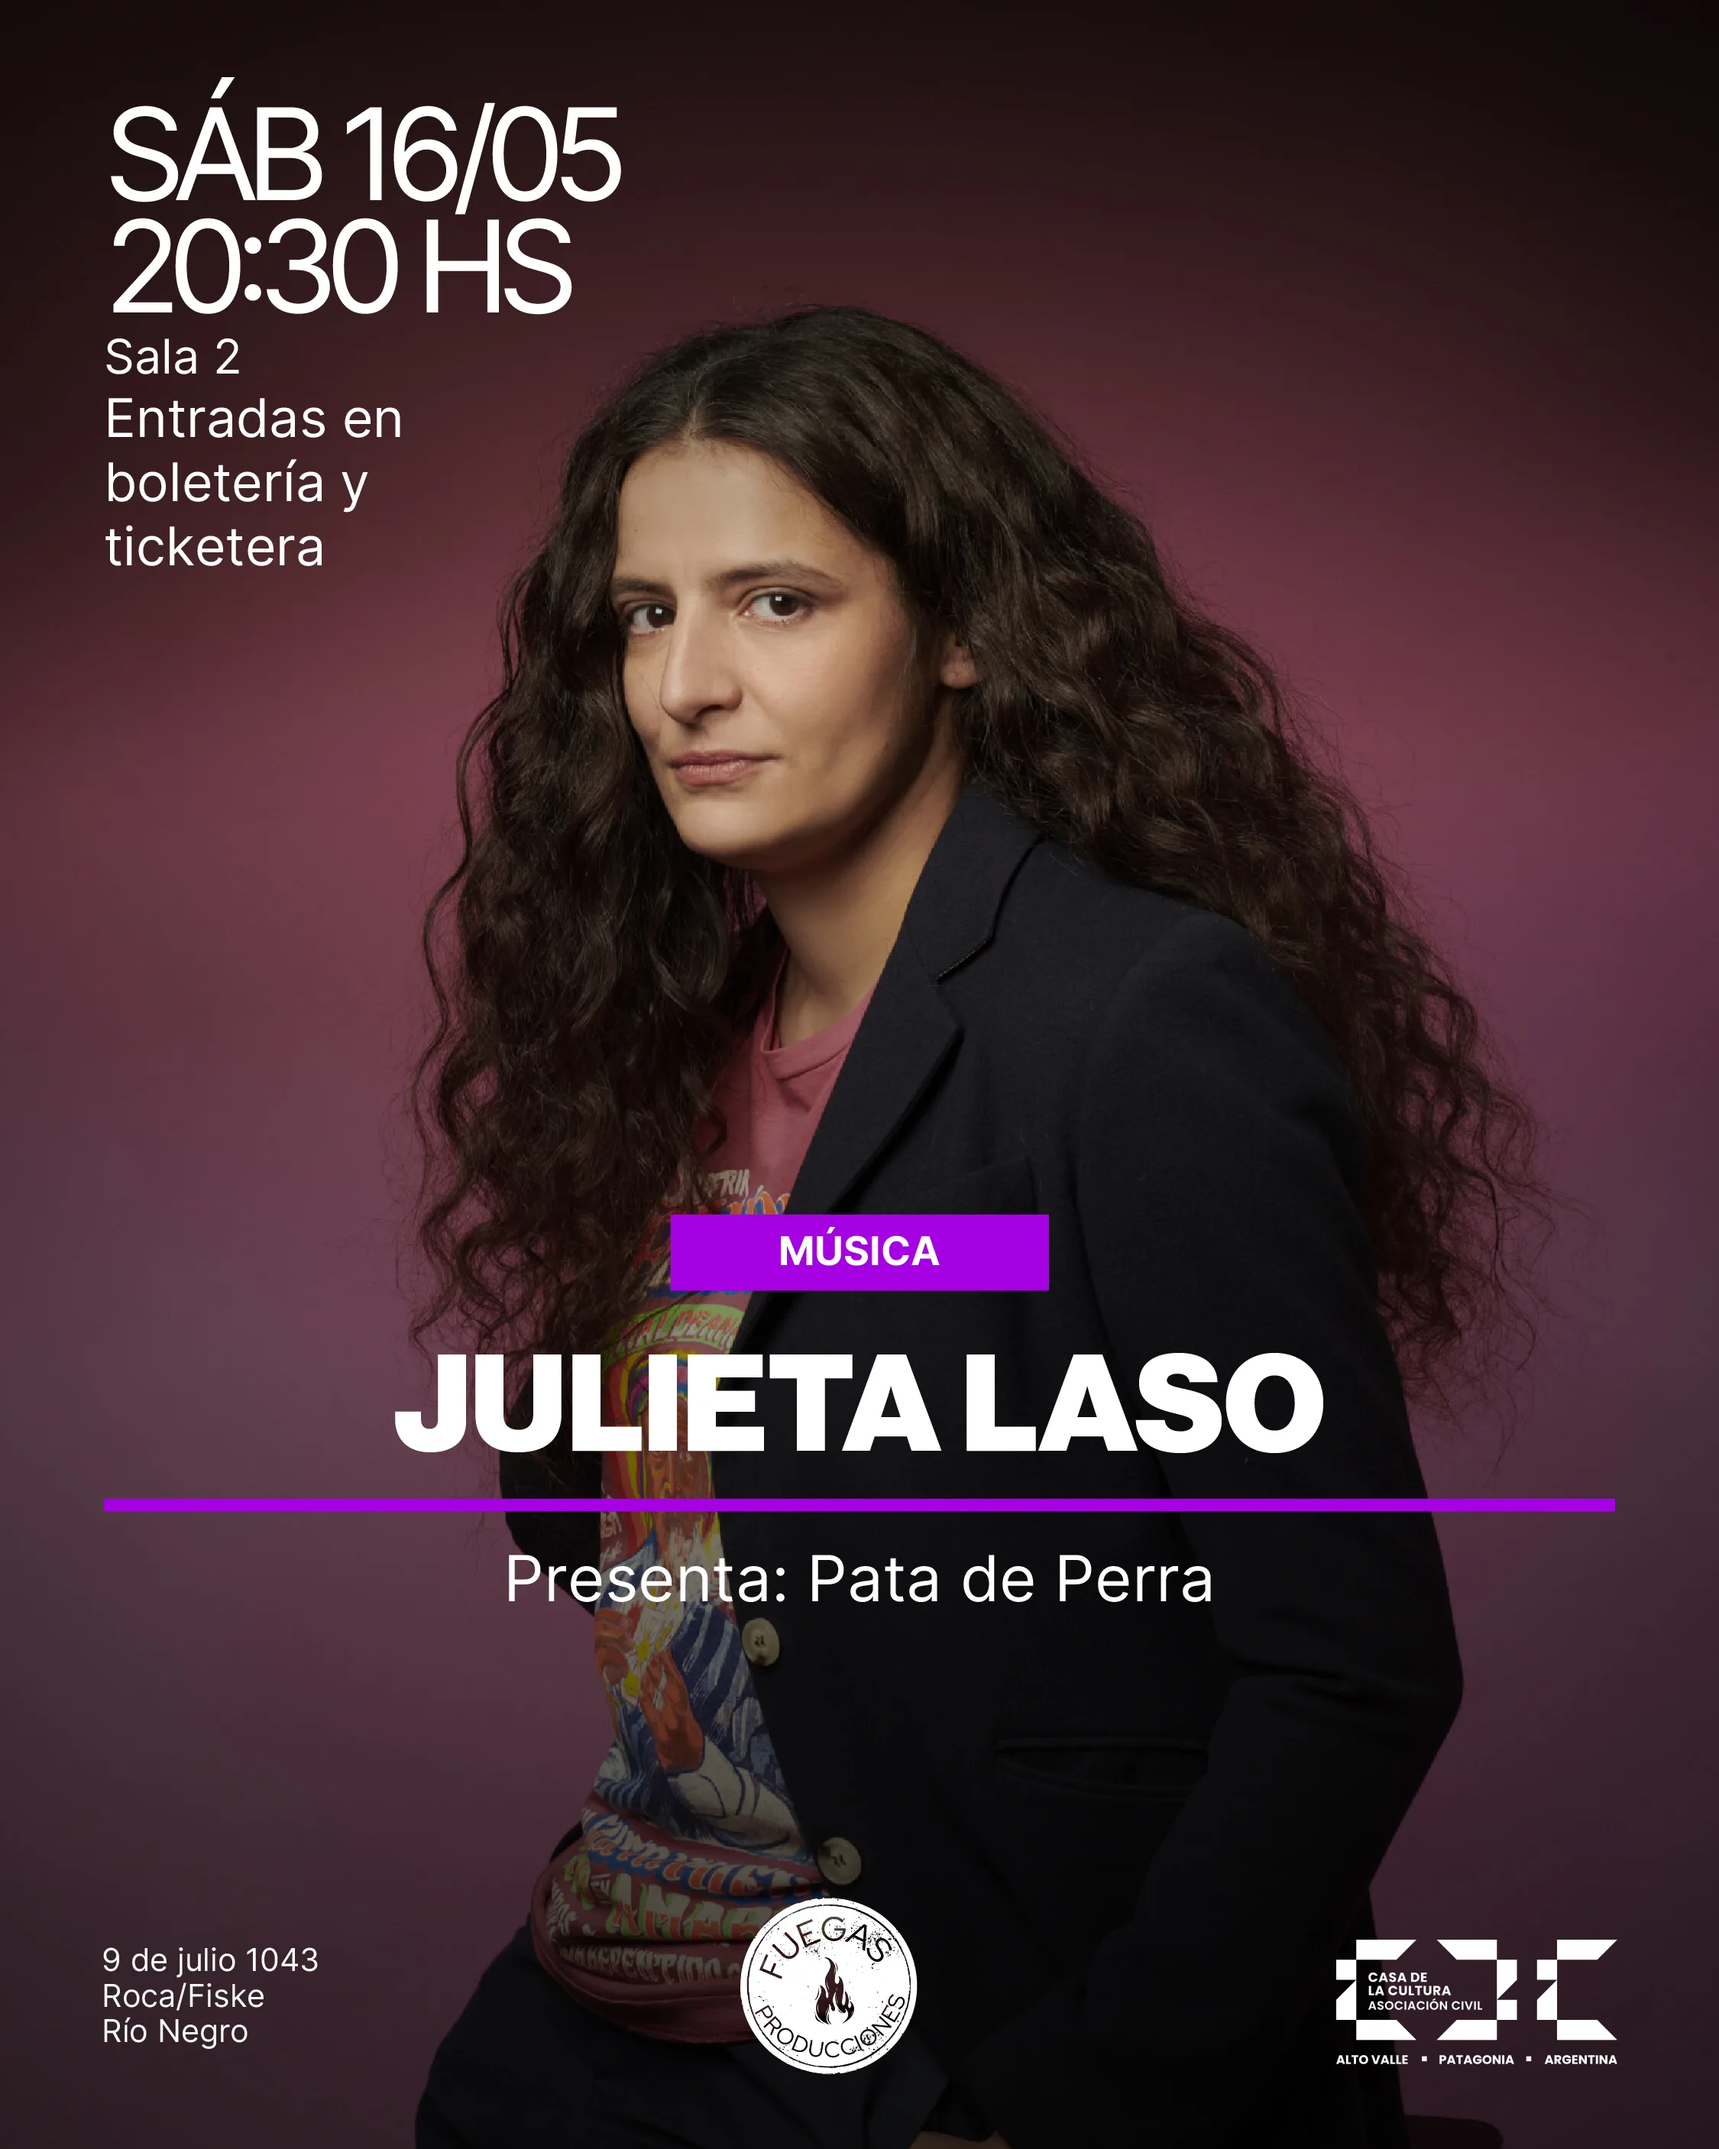
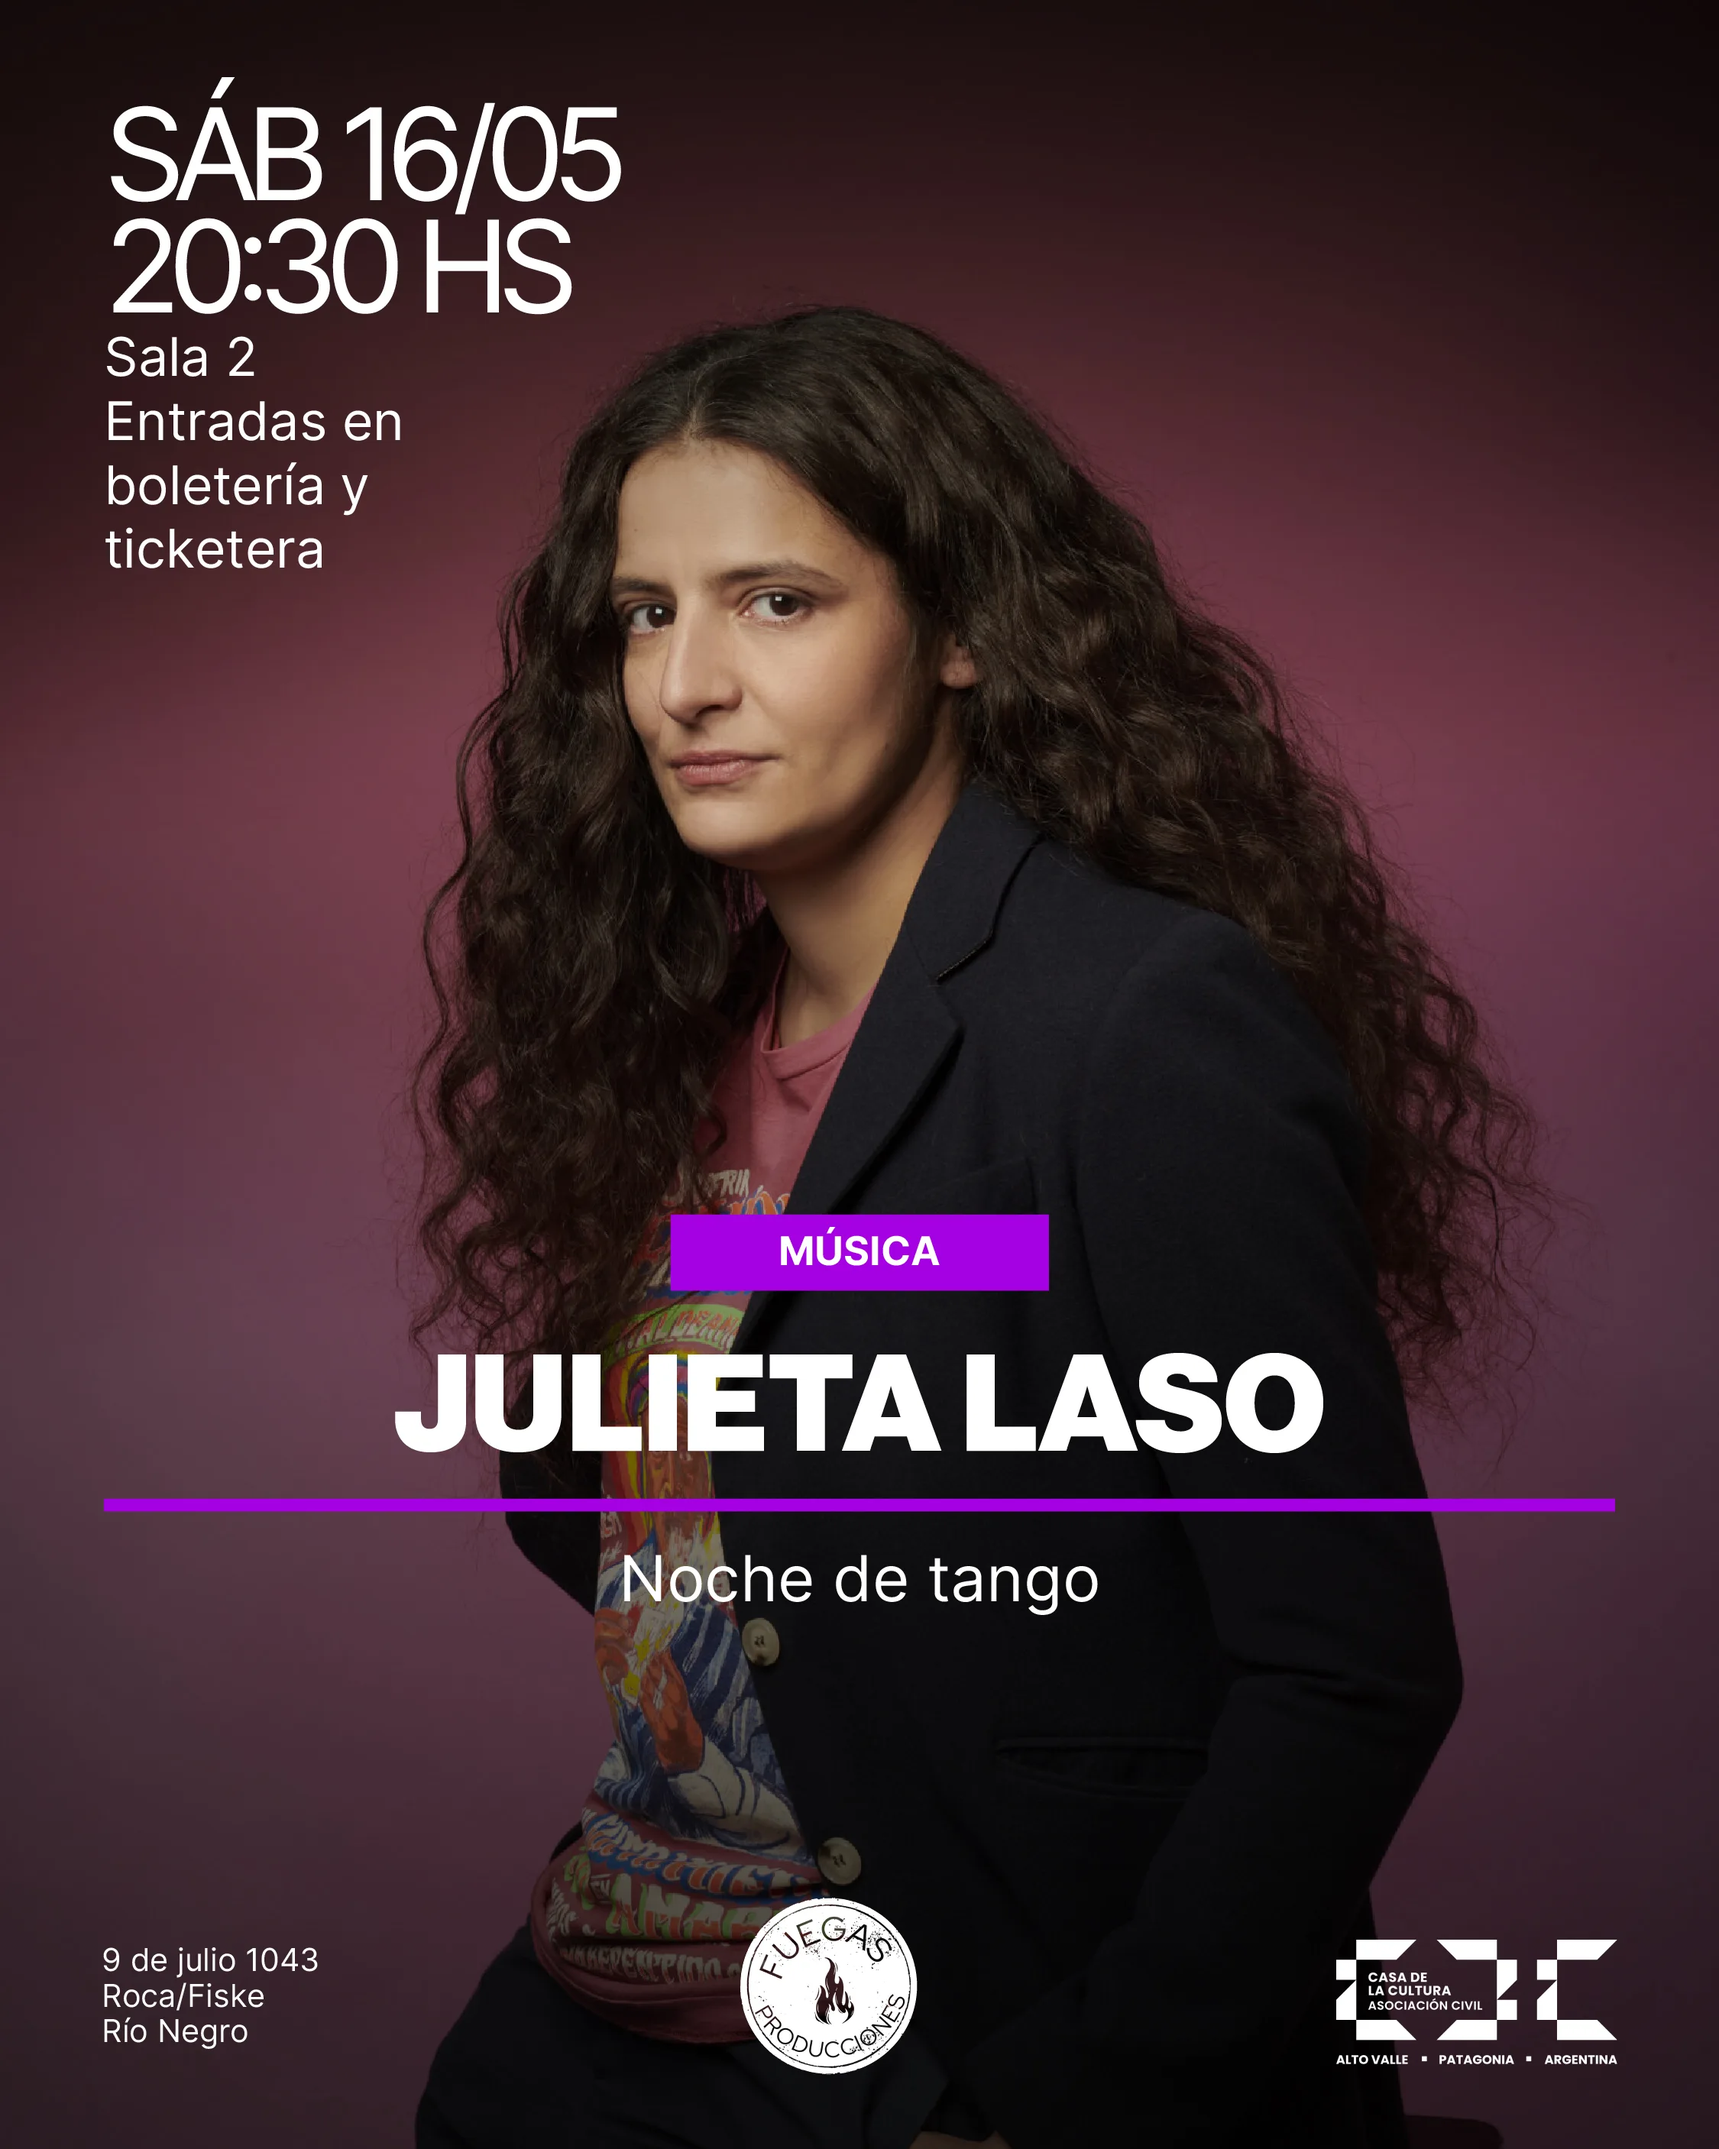
upload agenda abril, mayo, junio

Changed region(s): [[0.0622, 0.1546, 0.2178, 0.2784], [0.28, 0.7113, 0.7156, 0.7732]]

diff --git a/utils/eventsComplet.mock.ts b/utils/eventsComplet.mock.ts
@@ -28,12 +28,75 @@ export const eventosCompletMock: Event[] = [
     endDate: "2026-04-01",
     time: "18:00",
     title: "Taller para Bebés: Amar la Mar",
-    description: "Paisajes sonoros para fortalecer el vínculo a través del arte. Para niñxs de 0 a 3 años. | Entrada en entradaweb.com.",
+    description:
+      "Paisajes sonoros para fortalecer el vínculo a través del arte. Para niñxs de 0 a 3 años. | Entrada en entradaweb.com.",
     slug: "taller-bebes-amar-la-mar-las-magdalenas",
     category: "eventos",
     tags: ["Infancias", "Taller", "Música"],
     ticketeraUrl: "https://www.entradaweb.com.ar/",
   },
+
+  // NUEVOS
+  {
+    id: 100,
+    image: "/agenda/abril/breaker-morant.webp",
+    date: "2026-04-14",
+    startDate: "2026-04-14",
+    endDate: "2026-04-14",
+    time: "21:00",
+    title:
+      "Cineclub TYÖ: Después de la emboscada (Breaker Morant)",
+    description:
+      "En el vasto y polvoriento Veld sudafricano, tres soldados australianos enfrentan las reglas ocultas de la guerra. | Entradas en boletería.",
+    slug: "cineclub-tyo-breaker-morant",
+    category: "eventos",
+    tags: ["Cine", "Proyección", "Cineclub"],
+  },
+  {
+    id: 101,
+    image: "/agenda/abril/pena-semanal.webp",
+    date: "2026-04-15",
+    startDate: "2026-04-15",
+    endDate: "2026-04-15",
+    time: "21:30",
+    title: "Noche de Peña",
+    description:
+      "El encuentro semanal que reúne música, raíces y comunidad. | Entrada en boletería.",
+    slug: "noche-de-pena-semanal-abril-15",
+    category: "eventos",
+    tags: ["Música", "Folklore", "Peña"],
+  },
+  {
+    id: 102,
+    image: "/agenda/abril/expediente-culebra.webp",
+    date: "2026-04-17",
+    startDate: "2026-04-17",
+    endDate: "2026-04-17",
+    time: "22:00",
+    title: "Expediente Culebra",
+    description:
+      "Trío que fusiona rock, hip hop y trap para crear un sonido único y potente. | Entradas en boletería y ticketera.",
+    slug: "expediente-culebra",
+    category: "eventos",
+    tags: ["Música", "Rock"],
+    ticketeraUrl:
+      "https://survivo.com.ar/evento/expediente-culebra/",
+  },
+  {
+    id: 103,
+    image: "/agenda/abril/memorias-latinoamericanas.webp",
+    date: "2026-04-18",
+    startDate: "2026-04-18",
+    endDate: "2026-04-18",
+    time: "21:00",
+    title: "Memorias Latinoamericanas",
+    description:
+      "Obra teatral bilingüe inspirada en Eduardo Galeano que recorre el siglo XX latinoamericano. | Entradas en boletería y ticketera.",
+    slug: "memorias-latinoamericanas",
+    category: "eventos",
+    tags: ["Teatro", "Escénicas"],
+  },
+
   {
     id: 26,
     image: "/agenda/abril/pena-fer-vazquez-victor-gonzalez.webp",
@@ -42,11 +105,13 @@ export const eventosCompletMock: Event[] = [
     endDate: "2026-04-01",
     time: "21:30",
     title: "Noche de Peña: Fer Vázquez y Víctor González",
-    description: "Celebramos la música y las raíces en una noche cargada de tradición y buena energía. | Entrada popular.",
+    description:
+      "Celebramos la música y las raíces en una noche cargada de tradición y buena energía. | Entrada popular.",
     slug: "noche-de-pena-fer-vazquez-victor-gonzalez",
     category: "eventos",
     tags: ["Música", "Folklore", "Peña"],
   },
+
   {
     id: 27,
     image: "/agenda/abril/las-magdalenas-canciones-para-jugar.webp",
@@ -55,134 +120,218 @@ export const eventosCompletMock: Event[] = [
     endDate: "2026-04-02",
     time: "18:00",
     title: "Las Magdalenas – Canciones para jugar",
-    description: "Espectáculo lleno de ternura y música para toda la familia, especialmente niñxs desde los 2 años. | Entrada en entradaweb.com.",
+    description:
+      "Espectáculo lleno de ternura y música para toda la familia. | Entrada en entradaweb.com.",
     slug: "las-magdalenas-canciones-para-jugar",
     category: "eventos",
     tags: ["Infancias", "Música", "Teatro"],
-    ticketeraUrl: "https://www.entradaweb.com.ar/evento/25ea60b1/stop/1",
+    ticketeraUrl:
+      "https://www.entradaweb.com.ar/evento/25ea60b1/stop/1",
   },
+
   {
     id: 28,
     image: "/agenda/abril/muestra-madres-malvinas.webp",
     date: "2026-04-02",
-    startDate: "2026-04-02",
-    endDate: "2026-04-02",
     time: "20:30",
     title: "Muestra Fotográfica: Madres de Malvinas",
-    description: "Visibilización del dolor y la lucha de las Madres de Malvinas tras 40 años de memoria silenciada. | Entrada libre.",
+    description:
+      "Visibilización del dolor y la lucha de las Madres de Malvinas. | Entrada libre.",
     slug: "muestra-fotografica-madres-de-malvinas",
     category: "eventos",
     tags: ["Comunidad", "Muestra", "Memoria"],
   },
+
   {
     id: 60,
     image: "/agenda/abril/testigo-cargo.webp",
     date: "2026-04-07",
-    startDate: "2026-04-07",
-    endDate: "2026-04-07",
     time: "21:00",
     title: "Cineclub TYÖ: Testigo de cargo",
-    description: "Un abogado enfermo vuelve a los tribunales en un caso insólito. Obra que explora la naturaleza teatral del litigio. | Entradas en boletería.",
+    description:
+      "Un abogado enfermo vuelve a los tribunales en un caso insólito. | Entradas en boletería.",
     slug: "cineclub-tyo-testigo-de-cargo",
     category: "eventos",
     tags: ["Cine", "Proyección", "Cineclub"],
   },
+
   {
     id: 40,
     image: "/agenda/abril/milena-salamanca.webp",
     date: "2026-04-08",
-    startDate: "2026-04-08",
-    endDate: "2026-04-08",
     time: "22:00",
     title: "Noche de peña: Milena Salamanca",
-    description: "La reconocida cantautora platense presenta una propuesta artística sensible y contemporánea dentro del folclore. | Entradas en boletería y Ticketera.",
     slug: "noche-de-pena-milena-salamanca-abril",
     category: "eventos",
     tags: ["Música", "Folklore", "Peña"],
-    ticketeraUrl: "https://survivo.com.ar/evento/milena-salamanca/",
+    description: "",
+    ticketeraUrl:
+      "https://survivo.com.ar/evento/milena-salamanca/",
   },
+
   {
     id: 62,
     image: "/agenda/abril/madre-mia.webp",
     date: "2026-04-09",
-    startDate: "2026-04-09",
-    endDate: "2026-04-09",
     time: "21:00",
     title: "Mery Ceballos: Madre Mía",
-    description: "Comedia musical con música en vivo que adapta la aclamada 'Mamma Mia!' en nuestro escenario. | Entradas en Casona de Arte.",
+    description: "",
     slug: "madre-mia-mery-ceballos",
     category: "eventos",
-    tags: ["Música", "Teatro", "Comedia"],
+    tags: ["Música", "Teatro"],
   },
+
   {
     id: 64,
     image: "/agenda/abril/coronadas-de-gloria.webp",
     date: "2026-04-10",
-    startDate: "2026-04-10",
-    endDate: "2026-04-10",
     time: "21:00",
     title: "Coronadas de Gloria",
-    description: "Show que mezcla humor, transformismo, brillo y argentinidad. Una noche de risas y personajes inolvidables. | Entradas en h4ticket.com.",
+    description: "",
     slug: "coronadas-de-gloria",
     category: "eventos",
-    tags: ["Escénicas", "Humor", "Transformismo"],
-    ticketeraUrl: "https://www.h4ticket.com",
+    tags: ["Humor"],
   },
+
   {
     id: 41,
     image: "/agenda/abril/mentiras-sobre-el-amor.webp",
     date: "2026-04-11",
-    startDate: "2026-04-11",
-    endDate: "2026-04-11",
     time: "23:00",
     title: "Nico Serna: Mentiras sobre el Amor",
-    description: "Humor, verdad y vulnerabilidad para exponer los mitos con los que aprendimos a amar. Función de las 23hs (21hs Agotada). | Entradas en Ticketera.",
+    description: "",
     slug: "mentiras-sobre-el-amor-nico-serna",
     category: "eventos",
-    tags: ["Teatro", "Humor", "Escénicas"],
-    ticketeraUrl: "https://survivo.com.ar/evento/mentiras-sobre-el-amor-2/",
+    tags: ["Teatro", "Humor"],
   },
+
   {
     id: 68,
     image: "/agenda/abril/feria-expo-viajera-domingo.webp",
     date: "2026-04-12",
-    startDate: "2026-04-12",
-    endDate: "2026-04-12",
     time: "16:00",
     title: "Feria Expo Viajera",
-    description: "Paseo de emprendedores y artesanos con propuestas de arte, diseño, moda y deco. | Entrada libre.",
+    description: "",
     slug: "feria-expo-viajera-abril",
     category: "eventos",
-    tags: ["Comunidad", "Feria"],
+    tags: ["Comunidad"],
   },
+
   {
     id: 31,
     image: "/agenda/abril/pirulo-en-el-aire.webp",
     date: "2026-04-17",
-    startDate: "2026-04-17",
-    endDate: "2026-04-17",
     time: "21:00",
     title: "Pirulo en el Aire",
-    description: "Comedia familiar desopilante sobre la fama y la televisión con Pirulo Valmaceda. | Entradas en boletería y ticketera.",
+    description: "",
     slug: "pirulo-en-el-aire",
     category: "eventos",
-    tags: ["Teatro", "Comedia", "Familia"],
-    ticketeraUrl: "https://survivo.com.ar/evento/pirulo-en-el-aire/",
+    tags: ["Teatro", "Comedia"],
+    ticketeraUrl:
+      "https://survivo.com.ar/evento/pirulo-en-el-aire/",
   },
+
   {
     id: 32,
     image: "/agenda/abril/hernan-piquin.webp",
     date: "2026-04-21",
-    startDate: "2026-04-21",
-    endDate: "2026-04-21",
     time: "21:00",
     title: "Hernán Piquín presenta: Me verás volver",
-    description: "Danza inspirada en la música de Soda Stereo. Una narrativa profundamente humana y emotiva. | Entradas en boletería y ticketera.",
+    description: "",
     slug: "hernan-piquin-me-veras-volver",
     category: "eventos",
-    tags: ["Danza", "Música", "Rock", "Escénicas"],
-    ticketeraUrl: "https://survivo.com.ar/evento/hernan-piquin/",
-  }
+    tags: ["Danza", "Música"],
+    ticketeraUrl:
+      "https://survivo.com.ar/evento/hernan-piquin/",
+  },
+
+  // EXTRAS
+  {
+    id: 200,
+    image: "/agenda/abril/festival-danza.webp",
+    date: "2026-04-25",
+    startDate: "2026-04-25",
+    endDate: "2026-04-26",
+    time: "15:00",
+    title: "Festival de Danza: Intercambio Cultural",
+    description:
+      "Dos días de formación, intercambio y celebración de la danza con múltiples estilos. | Entradas en ticketera.",
+    slug: "festival-danza-intercambio-cultural",
+    category: "eventos",
+    tags: ["Danza", "Festival"],
+    ticketeraUrl:
+      "https://survivo.com.ar/evento/festival-cultural-por-la-danza/",
+  },
+  {
+    id: 201,
+    image: "/agenda/abril/por-siempre-fosse.webp",
+    date: "2026-04-25",
+    time: "20:00",
+    title: "Por Siempre Fosse",
+    description:
+      "Espectáculo que homenajea el estilo del legendario coreógrafo Bob Fosse.",
+    slug: "por-siempre-fosse",
+    category: "eventos",
+    tags: ["Danza", "Teatro"],
+    ticketeraUrl:
+      "https://survivo.com.ar/evento/por-siempre-fosse/",
+  },
+  {
+    id: 202,
+    image: "/agenda/mayo/cervantes-se-muestra.webp",
+    date: "2026-05-10",
+    time: "20:00",
+    title: "Cervantes se muestra",
+    description:
+      "Festival de danzas con artistas de todas las edades.",
+    slug: "cervantes-se-muestra",
+    category: "eventos",
+    tags: ["Danza"],
+    ticketeraUrl:
+      "https://survivo.com.ar/evento/cervantes-se-muestra/",
+  },
+  {
+    id: 203,
+    image: "/agenda/mayo/julieta-laso.webp",
+    date: "2026-05-16",
+    time: "20:30",
+    title: "Julieta Laso",
+    description:
+      "Cantora con un estilo profundo que interpreta tangos, valses y boleros.",
+    slug: "julieta-laso",
+    category: "eventos",
+    tags: ["Música", "Tango"],
+    ticketeraUrl:
+      "https://survivo.com.ar/evento/julieta-laso/",
+  },
+  {
+    id: 204,
+    image: "/agenda/junio/leo-maiello.webp",
+    date: "2026-06-06",
+    time: "21:00",
+    title: "Leo Maiello: Yo, sin culpa",
+    description:
+      "Charla en vivo que mezcla psicología, música y reflexión.",
+    slug: "leo-maiello-yo-sin-culpa",
+    category: "eventos",
+    tags: ["Charla"],
+    ticketeraUrl:
+      "https://survivo.com.ar/evento/maeillo-yo-sin-culpa/",
+  },
+  {
+    id: 205,
+    image: "/agenda/junio/cuarto-de-soda.webp",
+    date: "2026-06-09",
+    time: "21:00",
+    title: "El Cuarto de Soda",
+    description:
+      "Homenaje a Soda Stereo con sus grandes clásicos.",
+    slug: "el-cuarto-de-soda",
+    category: "eventos",
+    tags: ["Música", "Rock"],
+    ticketeraUrl:
+      "https://survivo.com.ar/evento/el-cuarto-soda/",
+  },
 ];
 
 export function getEventoBySlug(slug: string) {
